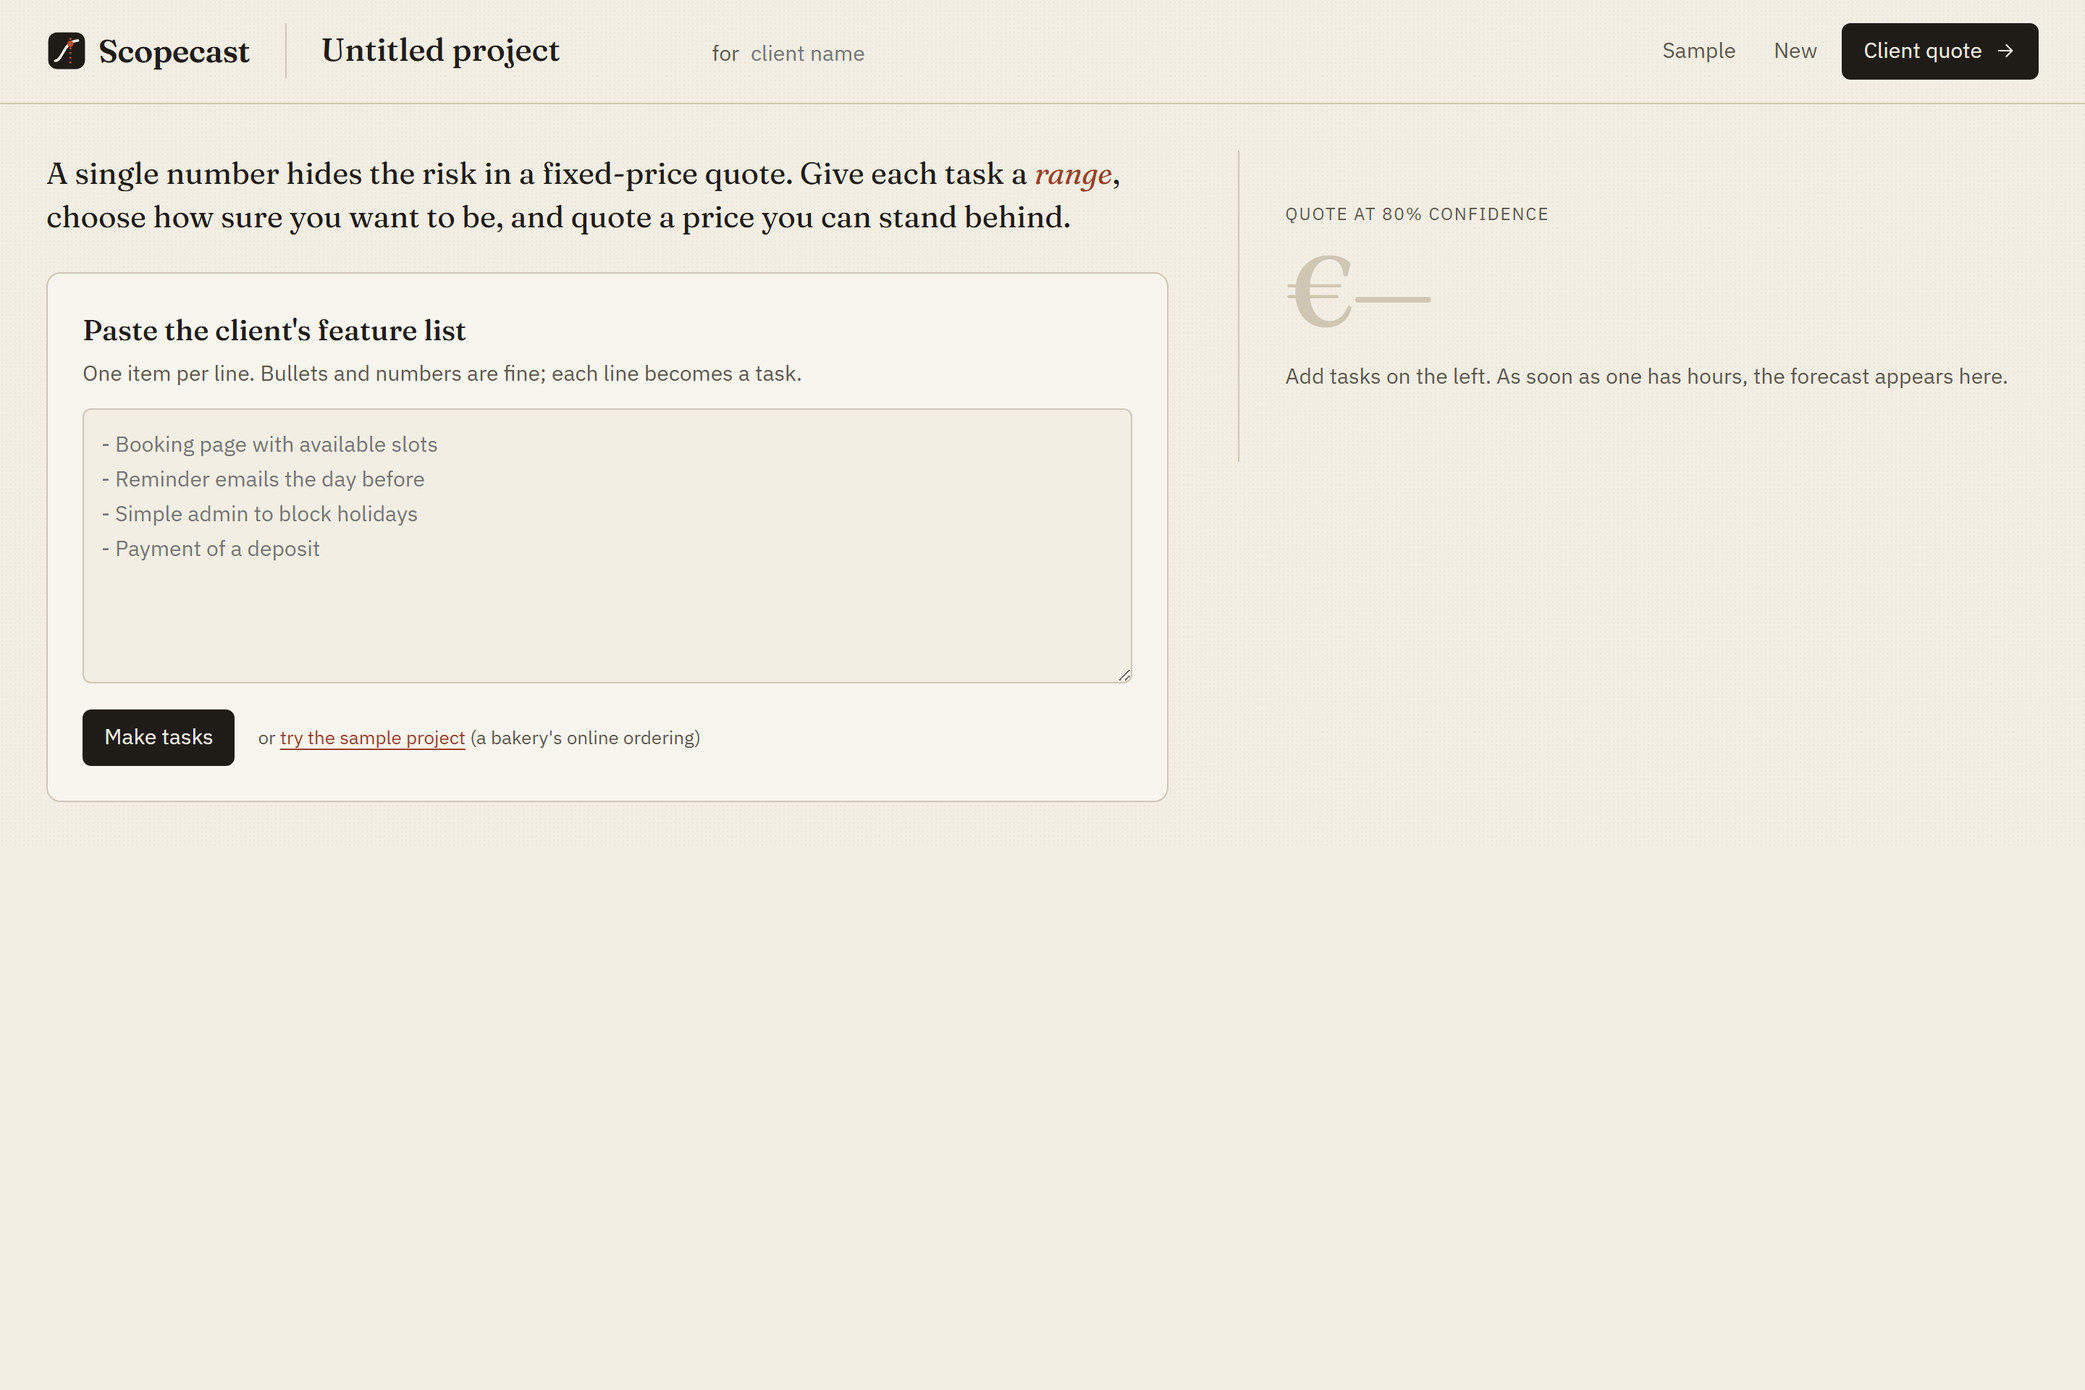
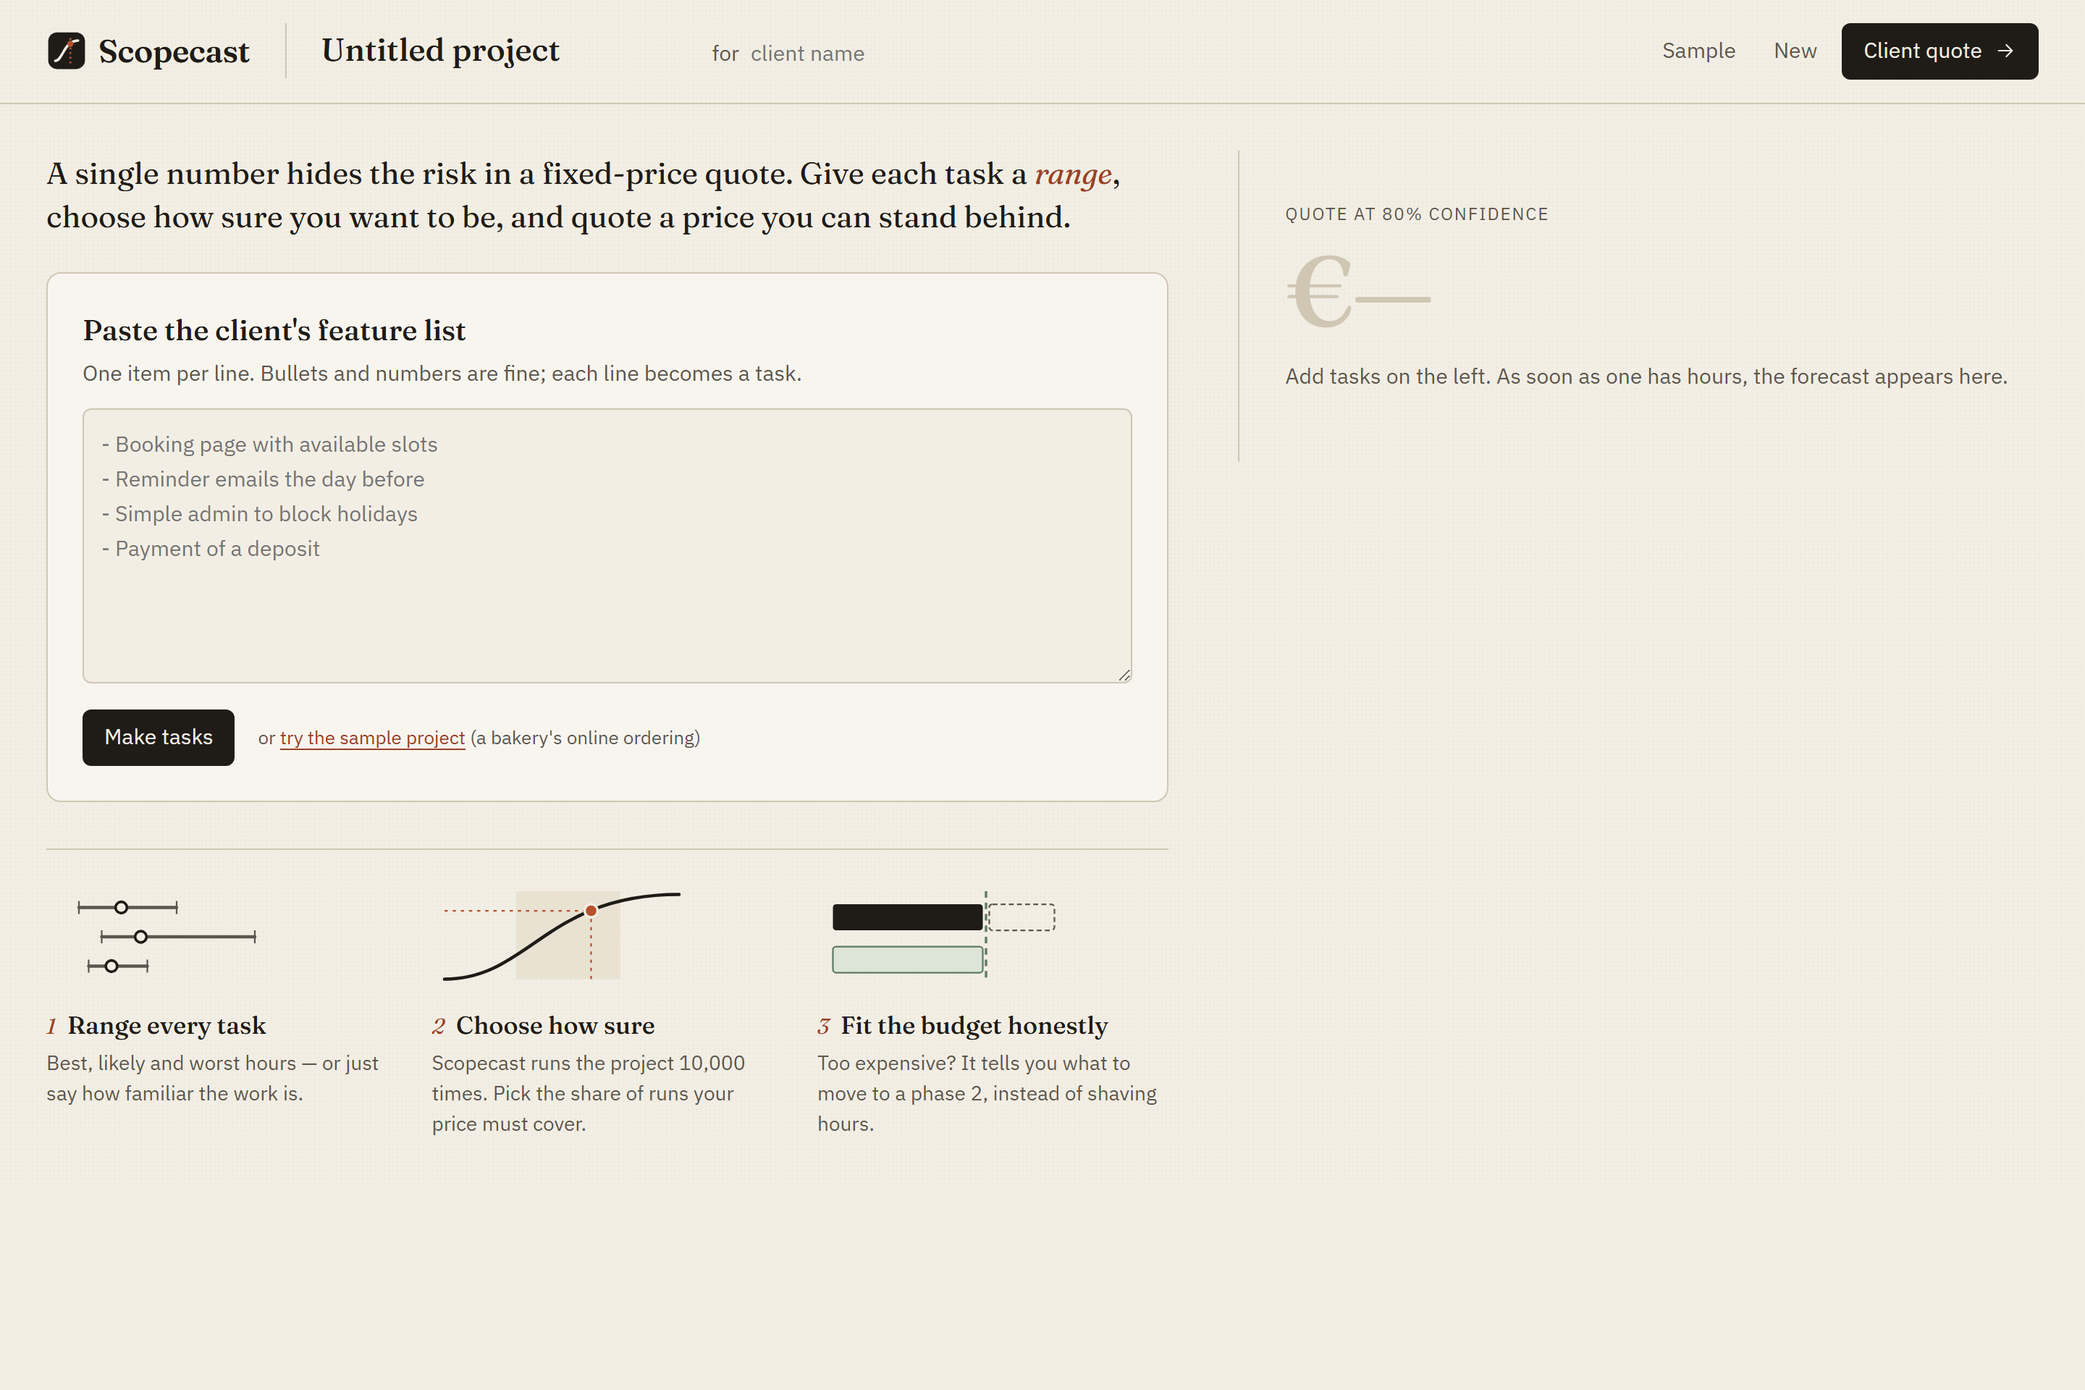
Add how-it-works empty state, style guide, README and graded marketing plates

diff --git a/src/components/HowItWorks.tsx b/src/components/HowItWorks.tsx
@@ -1,0 +1,61 @@
+/* Three small diagrams that explain the method on the empty screen. Drawn in code, no images. */
+
+const RangeDiagram = () => (
+  <svg viewBox="0 0 160 64" aria-hidden="true">
+    {[14, 32, 50].map((y, i) => {
+      const [a, m, b] = [
+        [20, 46, 80],
+        [34, 58, 128],
+        [26, 40, 62],
+      ][i];
+      return (
+        <g key={y}>
+          <line x1={a} x2={b} y1={y} y2={y} stroke="var(--graphite)" strokeWidth="2" strokeLinecap="round" />
+          <line x1={a} x2={a} y1={y - 4} y2={y + 4} stroke="var(--graphite)" />
+          <line x1={b} x2={b} y1={y - 4} y2={y + 4} stroke="var(--graphite)" />
+          <circle cx={m} cy={y} r="3.5" fill="var(--paper)" stroke="var(--ink)" strokeWidth="1.6" />
+        </g>
+      );
+    })}
+  </svg>
+);
+
+const CurveDiagram = () => (
+  <svg viewBox="0 0 160 64" aria-hidden="true">
+    <rect x="52" y="4" width="64" height="54" fill="var(--paper-deep)" />
+    <path d="M8 58 C 60 58, 70 6, 152 6" fill="none" stroke="var(--ink)" strokeWidth="2" strokeLinecap="round" />
+    <line x1="8" x2="98" y1="16" y2="16" stroke="var(--terracotta)" strokeDasharray="2 3" />
+    <line x1="98" x2="98" y1="16" y2="58" stroke="var(--terracotta)" strokeDasharray="2 3" />
+    <circle cx="98" cy="16" r="4" fill="var(--terracotta)" stroke="var(--paper)" strokeWidth="1.5" />
+  </svg>
+);
+
+const BudgetDiagram = () => (
+  <svg viewBox="0 0 160 64" aria-hidden="true">
+    <rect x="10" y="12" width="92" height="16" rx="2" fill="var(--ink)" />
+    <rect x="106" y="12" width="40" height="16" rx="2" fill="none" stroke="var(--graphite)" strokeDasharray="3 2" />
+    <rect x="10" y="38" width="92" height="16" rx="2" fill="var(--sage-wash)" stroke="var(--sage)" />
+    <line x1="104" x2="104" y1="4" y2="60" stroke="var(--sage)" strokeWidth="1.5" strokeDasharray="4 3" />
+  </svg>
+);
+
+const STEPS = [
+  { title: 'Range every task', body: 'Best, likely and worst hours — or just say how familiar the work is.', Diagram: RangeDiagram },
+  { title: 'Choose how sure', body: 'Scopecast runs the project 10,000 times. Pick the share of runs your price must cover.', Diagram: CurveDiagram },
+  { title: 'Fit the budget honestly', body: 'Too expensive? It tells you what to move to a phase 2, instead of shaving hours.', Diagram: BudgetDiagram },
+];
+
+export function HowItWorks() {
+  return (
+    <ol className="how-it-works" aria-label="How Scopecast works">
+      {STEPS.map(({ title, body, Diagram }, i) => (
+        <li key={title}>
+          <Diagram />
+          <span className="step-num">{i + 1}</span>
+          <strong>{title}</strong>
+          <p>{body}</p>
+        </li>
+      ))}
+    </ol>
+  );
+}

diff --git a/src/styles/app.css b/src/styles/app.css
@@ -360,7 +360,7 @@ textarea {
 
 .fam-select[data-fam='known'] {
   border-color: var(--sage);
-  color: var(--sage);
+  color: var(--sage-text);
 }
 
 .fam-select[data-fam='custom'] {
@@ -528,6 +528,48 @@ textarea {
 .intro em {
   font-style: italic;
   color: var(--terracotta-deep);
+}
+
+/* How it works (empty state) */
+.how-it-works {
+  list-style: none;
+  display: grid;
+  grid-template-columns: repeat(3, minmax(0, 1fr));
+  gap: var(--s5);
+  margin: var(--s6) 0 0;
+  padding: var(--s5) 0 0;
+  border-top: 1px solid var(--rule);
+}
+
+.how-it-works li {
+  position: relative;
+}
+
+.how-it-works svg {
+  width: 100%;
+  max-width: 180px;
+  height: auto;
+  display: block;
+  margin-bottom: var(--s3);
+}
+
+.how-it-works .step-num {
+  font-family: var(--font-display);
+  font-style: italic;
+  color: var(--terracotta-deep);
+  margin-right: var(--s2);
+}
+
+.how-it-works strong {
+  font-family: var(--font-display);
+  font-weight: 500;
+  font-size: 17px;
+}
+
+.how-it-works p {
+  margin: var(--s1) 0 0;
+  color: var(--graphite);
+  font-size: 14px;
 }
 
 /* ---------- Forecast ---------- */
@@ -815,6 +857,10 @@ textarea {
 }
 
 @media (max-width: 640px) {
+  .how-it-works {
+    grid-template-columns: 1fr;
+  }
+
   .task-head {
     display: none;
   }

diff --git a/src/components/ForecastCurve.tsx b/src/components/ForecastCurve.tsx
@@ -46,6 +46,7 @@ export function ForecastCurve({ summary, p, budgetHours, budgetFits }: Props) {
   const ticks = niceTicks(lo, hi);
   const showBudget = budgetHours !== undefined && Number.isFinite(budgetHours);
   const budgetColor = budgetFits ? 'var(--sage)' : 'var(--ochre-line)';
+  const budgetText = budgetFits ? 'var(--sage-text)' : 'var(--ochre)';
 
   return (
     <svg viewBox={`0 0 ${W} ${H}`} role="img" aria-label={`Chance of finishing within a number of hours. ${Math.round(p * 100)}% chance within ${formatHours(hours)} hours.`}>
@@ -83,7 +84,7 @@ export function ForecastCurve({ summary, p, budgetHours, budgetFits }: Props) {
       {showBudget && budgetHours! > lo && budgetHours! < hi && (
         <g>
           <line x1={x(budgetHours!)} x2={x(budgetHours!)} y1={M.top} y2={H - M.bottom} stroke={budgetColor} strokeWidth="1.5" strokeDasharray="5 4" />
-          <text x={x(budgetHours!) + 5} y={M.top + 28} fontSize="11" fill={budgetColor}>
+          <text x={x(budgetHours!) + 5} y={M.top + 28} fontSize="11" fill={budgetText}>
             budget
           </text>
         </g>

diff --git a/src/App.tsx b/src/App.tsx
@@ -1,6 +1,7 @@
 import { useEffect, useState } from 'react';
 import { ForecastPanel } from './components/ForecastPanel';
 import { Header } from './components/Header';
+import { HowItWorks } from './components/HowItWorks';
 import { PasteBox } from './components/PasteBox';
 import { QuotePage } from './components/QuotePage';
 import { TaskList } from './components/TaskList';
@@ -52,6 +53,7 @@ export default function App() {
                 behind.
               </p>
               <PasteBox onPaste={(text) => dispatch({ type: 'paste', text })} onSample={loadSample} />
+              <HowItWorks />
             </>
           ) : (
             <TaskList project={project} ranges={forecast.ranges} dispatch={dispatch} />

diff --git a/src/styles/tokens.css b/src/styles/tokens.css
@@ -12,8 +12,9 @@
   --terracotta-deep: #9a4024;
   --terracotta-wash: #f0dccf;
   --sage: #5e7b62;
+  --sage-text: #4a6550;
   --sage-wash: #dde5d8;
-  --ochre: #8f6a1d;
+  --ochre: #765812;
   --ochre-line: #b88a2b;
   --ochre-wash: #f1e4c6;
 

diff --git a/design/scripts/grade.py b/design/scripts/grade.py
@@ -1,0 +1,32 @@
+"""Shared colour grade for Scopecast marketing photography.
+
+usage: python design/scripts/grade.py <in.jpg> <out.jpg> [width height]
+Desaturates slightly, warms the shadows toward the paper tone, lifts blacks to ink
+(no pure black), and adds a seeded film grain so every image reads as one series.
+"""
+import sys
+
+import numpy as np
+from PIL import Image, ImageEnhance, ImageOps
+
+src, dst = sys.argv[1], sys.argv[2]
+size = (int(sys.argv[3]), int(sys.argv[4])) if len(sys.argv) > 4 else (1920, 1080)
+
+im = Image.open(src).convert("RGB")
+im = ImageOps.fit(im, size, method=Image.LANCZOS, centering=(0.5, 0.5))
+im = ImageEnhance.Color(im).enhance(0.82)
+im = ImageEnhance.Contrast(im).enhance(0.94)
+
+a = np.asarray(im).astype(np.float32) / 255.0
+ink = np.array([0x1F, 0x1C, 0x17], np.float32) / 255.0
+paper = np.array([0xF3, 0xEE, 0xE4], np.float32) / 255.0
+lum = a.mean(axis=2, keepdims=True)
+# Split tone: shadows toward ink, highlights toward paper.
+a = a * 0.9 + (ink * (1 - lum) + paper * lum) * 0.1
+# Lift blacks to the ink tone.
+a = ink + a * (1 - ink)
+rng = np.random.default_rng(20261015)
+grain = rng.normal(0, 0.018, a.shape[:2])[..., None]
+a = np.clip(a + grain, 0, 1)
+Image.fromarray((a * 255).astype(np.uint8)).save(dst, quality=90)
+print("graded", dst, size)

diff --git a/README.md b/README.md
@@ -1,0 +1,68 @@
+# Scopecast
+
+**Quote fixed-price software work with a stated confidence level.**
+
+Freelancers quote a single number per task, add "+20%", and absorb the overrun when a task blows up.
+Scopecast asks for a *range* per task (best / likely / worst hours), simulates the project 10,000 times,
+and gives you the price and delivery date that cover the share of outcomes you choose — "80% of simulated
+runs finish within 99 hours, so the fixed price is €8,400". When the client's budget is lower, it tells you
+which tasks to move to a **phase 2** so the quote still holds, instead of quietly shaving hours.
+
+Built for [Build With AI: Basics](https://learn-ai-basics.devpost.com/) with the Devpost Learn Skill Pack.
+The planning documents the skills produced are in [`devpost/`](devpost/): [scope](devpost/scope.md),
+[PRD](devpost/prd.md), [spec](devpost/spec.md) and the [build checklist](devpost/checklist.md).
+
+![Scopecast workbench](design/screenshots/04-after-phase2.png)
+
+## Try it
+
+Requirements: Node.js 22+ and npm. No accounts, API keys or environment variables.
+
+```bash
+npm install
+npm run dev        # open http://localhost:5173 and click "try the sample project"
+npm test           # unit tests for the parser, simulator, budget fitter and persistence
+npm run build      # static build in dist/
+```
+
+Everything runs in the browser; the project is saved in this browser's local storage and nothing is sent
+anywhere.
+
+## How it works
+
+| Piece | File | What it does |
+|---|---|---|
+| Parser | `src/engine/parse.ts` | One task per pasted line; strips bullets and numbering; de-duplicates |
+| Estimates | `src/engine/estimate.ts` | Familiarity presets (Known 0.8×/1.3×, Some unknowns 0.7×/1.8×, New territory 0.6×/2.5×); sorts and flags out-of-order ranges |
+| Simulator | `src/engine/simulate.ts` | Seeded PERT (beta) sampling per task, 10,000 runs, percentiles and coverage |
+| Budget fitter | `src/engine/fit.ts` | Best-first search over the optional tasks, in order of expected hours removed, checked against the real simulated runs; pinned must-haves are never deferred |
+| UI | `src/components/` | Workbench, SVG forecast curve, confidence dial, printable client quote |
+
+The price is the hours at the chosen percentile × your hourly rate, rounded up to the next €50.
+Each task has its own fixed random seed, so the same inputs always give the same quote, and removing a task
+removes exactly its share from every simulated run.
+
+**Limits, stated plainly:** tasks are simulated as independent, so a risk that hits several tasks at once
+(a client who is slow to give feedback on everything) is under-represented; the ranges are only as honest as
+the person typing them.
+
+## Verification
+
+- `npm test` — 28 unit tests, including a check that the 80th percentile at 10,000 runs varies by less than
+  1% across seeds, and a comparison of the budget fitter against every possible subset.
+- `python scripts/e2e_check.py http://127.0.0.1:5173/` — walks the whole journey in a headless Chromium
+  (paste → hours → familiarity → confidence → budget → phase 2 → reload → quote → one-page PDF → 390 px
+  layout) and saves the screenshots in `design/screenshots/`. Needs `pip install playwright` and
+  `playwright install chromium`.
+
+## Credits
+
+- Fonts: [Fraunces](https://fonts.google.com/specimen/Fraunces) and
+  [IBM Plex Sans](https://fonts.google.com/specimen/IBM+Plex+Sans), SIL Open Font License 1.1, via Fontsource.
+- Design system: [`design/STYLE_GUIDE.md`](design/STYLE_GUIDE.md). Generated marketing images are listed in
+  [`design/GENERATED_ASSETS.md`](design/GENERATED_ASSETS.md); none are used inside the app.
+- The sample bakery ("De Korenbloem") is fictional.
+
+## Licence
+
+[MIT](LICENSE) © 2026 Rui Codex

diff --git a/design/STYLE_GUIDE.md b/design/STYLE_GUIDE.md
@@ -1,0 +1,64 @@
+# Scopecast style guide
+
+One visual system for the app, the client quote, the Devpost images and the demo video.
+Idea: **an estimate sheet from a good architect's office** — warm paper, black ink, one terracotta
+accent, quiet charts. Calm and trustworthy, never a startup dashboard.
+
+## Palette (7 tokens + washes)
+
+| Token | Hex | Use |
+|---|---|---|
+| `paper` | `#F3EEE4` | Page background (with a 3 px dot grain at 3.5% ink) |
+| `paper-deep` | `#E9E2D3` | Likely-range band in the chart, quote "desk" background |
+| `ink` | `#1F1C17` | Text, the curve, primary buttons |
+| `graphite` | `#5C574E` | Secondary text, axes, range bars |
+| `rule` | `#CFC6B4` | Hairlines and input borders (no drop shadows anywhere) |
+| `terracotta` | `#B8502E` | The one accent: confidence marker, slider, focus ring, "Move to phase 2" |
+| `sage` | `#5E7B62` (text `#4A6550`) | "Fits" states, the budget line when it fits |
+| `ochre` | `#B88A2B` (text `#765812`) | Warnings: out-of-order ranges, "needs hours", sample tag |
+
+Washes (`terracotta-wash #F0DCCF`, `sage-wash #DDE5D8`, `ochre-wash #F1E4C6`) are used only behind
+verdict messages. One accent per view; terracotta never decorates.
+
+Contrast (measured): ink on paper 14.7:1, graphite on paper 6.2:1, ochre text on ochre wash 5.3:1,
+sage text on paper 5.6:1, white on terracotta 5.0:1 — all WCAG AA for body text.
+
+## Type (two families, both SIL Open Font License 1.1, self-hosted via `@fontsource`)
+
+- **Fraunces** (500 for headings and the big price, 400 italic for emphasis) — warm, editorial serif.
+- **IBM Plex Sans** (400, 600) for UI and every number; tabular lining figures (`tnum`, `lnum`) so prices
+  do not jump when they change.
+
+Scale: 68 (price) · 38 (quote title) · 26 (panel titles) · 21 (intro) · 17 (group labels) · 15 (body) ·
+13 (meta) · 12 (eyebrows, uppercase, 0.08em tracking).
+
+## Spacing, shape, motion
+
+- 8 px scale (4, 8, 12, 16, 24, 32, 48, 64). Radius 6 px (inputs, buttons), 10 px (paste box). Pills only
+  for familiarity chips.
+- Hairline rules separate sections; no cards with shadows.
+- Motion: 160 ms `cubic-bezier(0.2, 0.7, 0.2, 1)`; the price settles 2 px when it changes.
+  `prefers-reduced-motion` turns all animation off.
+
+## Icons
+
+One family drawn for Scopecast in `src/components/icons.tsx`: 24 px grid, 1.6 px round strokes, no fills.
+The mark is an ink tile with a cream S-curve and a terracotta confidence marker.
+
+## Charts
+
+Tufte-quiet: a 2 px ink curve, a paper-deep band for the 10th–90th percentile, three light grid lines,
+a terracotta dashed marker at the chosen confidence, a dashed budget line (sage when it fits, ochre when
+not). Labels in the UI face at 11–12 px. No legends, no 3D, no gradients.
+
+## Photography (marketing only, never in the product UI)
+
+Editorial still life and interiors: soft window light, medium-format film look, fine grain, muted
+cream / ink / terracotta / sage. No people's faces, no text in images, no screens with content.
+All generated images are logged in `GENERATED_ASSETS.md` and graded with `design/scripts/grade.py`.
+Any words that appear over an image are real typography set in Fraunces / IBM Plex Sans.
+
+## Copy
+
+Second person, short, plain. Explain any statistics word in one line where it appears
+("80% confidence: in 8,000 of 10,000 simulated runs …"). Never promise accuracy we do not have.

diff --git a/design/GENERATED_ASSETS.md b/design/GENERATED_ASSETS.md
@@ -1,0 +1,15 @@
+# Generated assets
+
+All AI-generated imagery in this repository. None of it is used inside the Scopecast app; it is
+marketing and video mood only. No generated image contains text, people's faces, client data or
+product UI — every word that appears over these images is real typography, and every product shot
+is a real browser capture of the running app.
+
+| Date | Tool / model | Prompt (summary; full text in `design/flow/prompts.txt`) | Variants | Chosen | Used in | Post |
+|---|---|---|---|---|---|---|
+| 2026-10-15 | Google Flow via `gflow-cli` 0.80.0, `--model nano-pro` (Nano Banana Pro), 16:9, 0 credits | Overhead editorial photo, pale oak drafting desk, blank cream paper, brass ruler, pencil, terracotta cup, sage linen, film grain | 3 | `prompt_0_2` → `design/img/plate-desk.jpg` | Devpost cover, video opening and end card, thumbnail | `design/scripts/grade.py` |
+| 2026-10-15 | same | Belgian bakery counter at dawn through the shop window, sourdough on linen, no people or signs | 3 | `prompt_1_2` → `design/img/plate-bakery.jpg` | Video: "the client" scene | `design/scripts/grade.py` |
+| 2026-10-15 | same | Small home office by a window in a Flemish townhouse, rainy morning, closed laptop, notebook | 3 | `prompt_2_2` → `design/img/plate-office.jpg` | Video: "the freelancer" scene | `design/scripts/grade.py` |
+
+Raw variants are kept locally in `design/flow/raw/` and are not committed. No Veo video was generated.
+The video's narration is synthetic speech (Microsoft Edge neural TTS) — see `video/CREDITS.md`.
